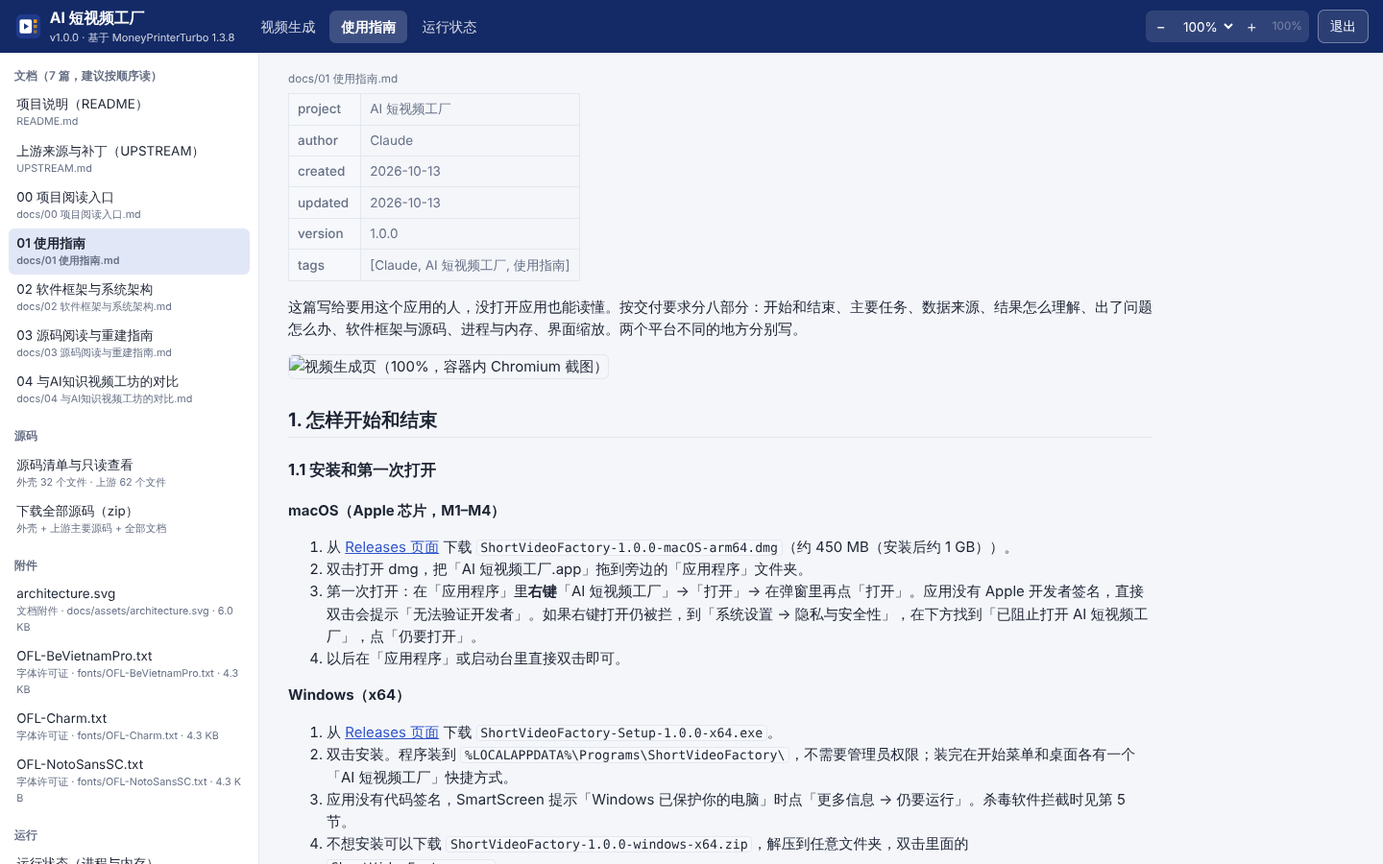
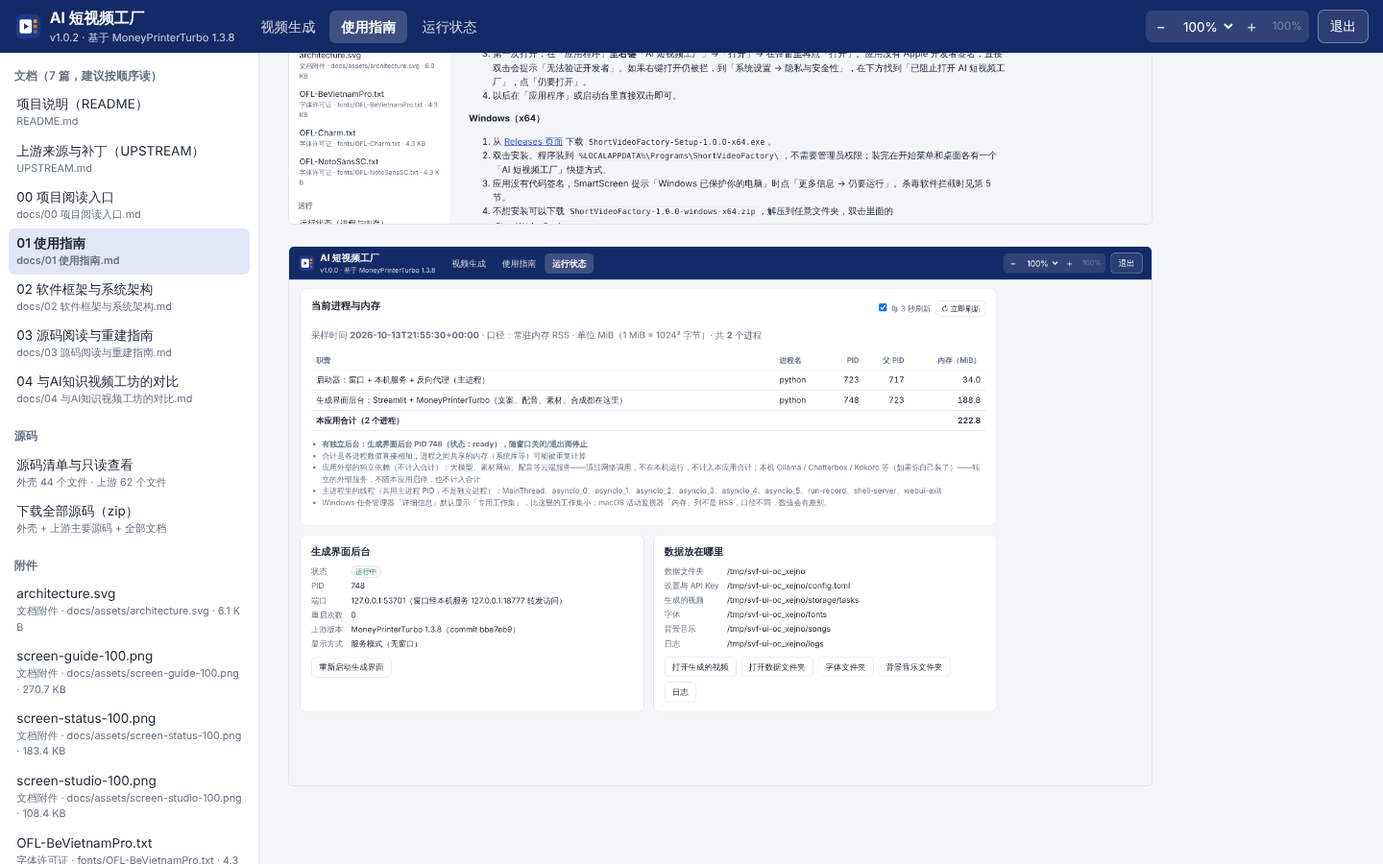
AI 短视频工厂 1.0.2：docs 02/03/04 同步、架构图与截图更新、界面检查加程序生成来源/语言提醒/钥匙提示/代理/知识卡片出片，Pixabay 标为推荐（P4 译文）[skip ci]
已完成：容器内无头 Chromium 界面检查 77 项全部通过（含知识讲解卡片 + 无配音离线出片）；Linux 打包冒烟通过（含知识卡片离线任务）；
上游测试（不加载 svf_ext）2043 通过；单元测试 66 项通过。
下一步：看加载 svf_ext 时上游测试的失败项，最后一次提交（不带 skip ci）触发两平台 CI。

Claude-Session: https://claude.ai/code/session_01KUofmxnsMVGvWx7QtZcrT5

diff --git a/shortvideo-factory/tests/ui_check.py b/shortvideo-factory/tests/ui_check.py
@@ -9,7 +9,9 @@
 3. 使用指南：逐篇打开 README、UPSTREAM 和 docs/ 全部文档，内容完整、图片能显示、站内链接能跳转、附件能下载；
    源码清单、外壳和上游源码只读查看、源码 zip 下载；窄窗口下入口仍可见。
 4. 运行状态：表里的 PID 与 ps 抽样一致（含内存），重启后台后列表更新、旧 PID 消失。
-5. （--generate）走通一条主要操作：本地素材 + 无配音（不需要网络和 Key）生成一条视频；生成中 FFmpeg 子进程出现在运行状态里，结束后消失。
+5. （--generate）走通一条主要操作：本地素材 + 无配音（不需要网络和 Key）生成一条视频；生成中 FFmpeg 子进程出现在运行状态里，结束后消失；
+   再用「知识讲解卡片」+ 无配音生成一条（1.0.2）。
+5b. 1.0.2：视频来源下拉的「程序生成」组、卡片配色、声音和文案语言不一致提醒、钥匙填错栏位提示、素材下载代理输入框。
 6. 扫一遍 Streamlit 页面里剩下的英文。
 7. 点「退出」：启动器、后台全部结束，端口释放。
 结果写到 <截图目录>/ui_check_report.json。
@@ -338,6 +340,28 @@ def run_status(page, rec: dict, shots: Path, base: str):
            "重启生成界面后台后，列表换成新 PID，旧 PID 不再显示", f"旧 {old} → 新 {new}；表中 {sorted(tbl2)}")
 
 
+def finals_of(data: Path) -> set:
+    tasks = data / "storage" / "tasks"
+    return set(tasks.glob("*/final-1.mp4")) if tasks.exists() else set()
+
+
+def wait_generation(page, frame, data: Path, before: set, base: str = "", timeout: int = 600):
+    """等这次生成结束：出现新的成片（不在 before 里）且页面显示完成，或页面显示失败。返回 (成功, 新成片, 期间见过的 FFmpeg PID)。"""
+    t0 = time.time()
+    saw_ffmpeg = set()
+    new = []
+    while time.time() - t0 < timeout:
+        if base:
+            procs = page.request.get(base + "/api/processes").json()["processes"]
+            saw_ffmpeg |= {p["pid"] for p in procs if "ffmpeg" in p["name"].lower()}
+        new = sorted(finals_of(data) - before)
+        body = frame.inner_text("body")
+        if (new and "视频生成完成" in body) or ("视频生成失败" in body and time.time() - t0 > 5):
+            break
+        time.sleep(1.5)
+    return bool(new) and "视频生成完成" in frame.inner_text("body"), new, saw_ffmpeg
+
+
 def run_generate(page, base: str, data: Path, media: Path):
     page.click("#tab-studio")
     frame = wait_studio(page)
@@ -353,18 +377,10 @@ def run_generate(page, base: str, data: Path, media: Path):
     frame.wait_for_timeout(800)
     frame.locator("button").filter(has_text="无配音").first.click()
     frame.wait_for_timeout(2000)
-    frame.locator("button").filter(has_text="生成视频").last.click()
+    before = finals_of(data)
     t0 = time.time()
-    saw_ffmpeg = set()
-    while time.time() - t0 < 600:
-        procs = page.request.get(base + "/api/processes").json()["processes"]
-        saw_ffmpeg |= {p["pid"] for p in procs if "ffmpeg" in p["name"].lower()}
-        body = frame.inner_text("body")
-        if "视频生成完成" in body or "视频生成失败" in body:
-            break
-        time.sleep(1.5)
-    done = "视频生成完成" in frame.inner_text("body")
-    finals = list((data / "storage" / "tasks").glob("*/final-1.mp4"))
+    frame.locator("button").filter(has_text="生成视频").last.click()
+    done, finals, saw_ffmpeg = wait_generation(page, frame, data, before, base)
     page.screenshot(path=str(Path(REPORT["shots"]) / "generate-done.png"))
     expect(done and finals, "主要操作：本地素材 + 无配音生成一条视频（离线）",
            f"用时 {time.time() - t0:.0f} 秒，成片 {finals[0] if finals else '无'}")
@@ -376,6 +392,101 @@ def run_generate(page, base: str, data: Path, media: Path):
         out = subprocess.run(["ffprobe", "-v", "error", "-show_entries", "format=duration:stream=codec_name,width,height",
                               "-of", "compact", str(finals[0])], capture_output=True, text=True).stdout
         ok("成片信息", out.replace("\n", " "))
+
+
+def voice_select(frame, text):
+    """在「配音声音」下拉里输入并选中一个声音。"""
+    box = frame.locator("[data-testid='stSelectbox']").filter(has_text="配音声音").first
+    box.locator("input").first.click()
+    frame.page.keyboard.press("Control+a")
+    frame.page.keyboard.press("Backspace")
+    frame.page.keyboard.type(text)
+    frame.wait_for_timeout(800)
+    frame.page.keyboard.press("Enter")
+    frame.wait_for_timeout(2500)
+
+
+def run_cards_ui(page, shots: Path, data: Path):
+    """1.0.2：程序生成来源、卡片配色、声音语言提醒、钥匙格式提示、素材下载代理。"""
+    page.click("#tab-studio")
+    frame = wait_studio(page)
+    dismiss_tour(frame)
+    sel = frame.locator(".mpt-grouped-select select").first
+    groups = sel.evaluate("s => [...s.querySelectorAll('optgroup')].map(g => [g.label, [...g.querySelectorAll('option')].map(o => o.value)])")
+    prog = dict((g[0], g[1]) for g in groups).get("程序生成", [])
+    expect(prog == ["knowledge_cards", "hybrid_pixabay", "hybrid_pexels"], "视频来源下拉单列「程序生成」组（知识讲解卡片、两种混合）", str(groups))
+    sel.select_option(value="knowledge_cards")
+    frame.wait_for_timeout(3000)
+    body = frame.inner_text("body")
+    expect("卡片配色" in body and "不需要素材钥匙" in body, "选「知识讲解卡片」后显示说明和「卡片配色」")
+    page.screenshot(path=str(shots / "cards-source-100.png"))
+    frame.locator("textarea[aria-label*='视频主题']").first.fill("逻辑门是怎样工作的")
+    frame.locator("textarea[aria-label*='视频主题']").first.press("Tab")
+    frame.wait_for_timeout(1500)
+    voice_select(frame, "af-ZA-Adri")
+    frame.wait_for_timeout(1500)
+    body = frame.inner_text("body")
+    expect("不是中文" in body and "No audio was received" in body, "中文主题选了 af-ZA 声音时提醒语言不一致")
+    warn = frame.locator("[data-testid='stAlert']").filter(has_text="不是中文").first
+    if warn.count():
+        warn.scroll_into_view_if_needed()
+        page.screenshot(path=str(shots / "voice-language-warning.png"))
+    voice_select(frame, "zh-CN-Xiaoxiao")
+    expect("不是中文" not in frame.inner_text("body"), "换回 zh-CN 声音后提醒消失")
+    frame.locator("button").filter(has_text="配置素材来源").first.click()
+    frame.wait_for_selector("[role='dialog']", timeout=15000)
+    dlg = frame.locator("[role='dialog']").first
+    pex = dlg.locator("input[aria-label^='Pexels API Key']").first
+    pex.fill("12345678-0123456789abcdef012345678")
+    pex.press("Enter")
+    frame.wait_for_timeout(2500)
+    expect("这像是 Pixabay 的钥匙" in dlg.inner_text(), "Pixabay 格式的钥匙填进 Pexels 栏时提示")
+    proxy = dlg.locator("input[aria-label*='素材下载代理']").first
+    expect(proxy.count() == 1, "素材来源设置里有「素材下载代理」输入框")
+    proxy.fill("http://127.0.0.1:7897")
+    proxy.press("Enter")
+    frame.wait_for_timeout(2500)
+    expect("素材搜索和下载走代理" in dlg.inner_text(), "填了素材下载代理后显示生效说明")
+    proxy.scroll_into_view_if_needed()
+    page.screenshot(path=str(shots / "material-settings-proxy.png"))
+    pex.fill("")
+    pex.press("Enter")
+    proxy.fill("")
+    proxy.press("Enter")
+    frame.wait_for_timeout(2500)
+    expect("这像是" not in dlg.inner_text(), "清空后钥匙提示消失")
+    page.keyboard.press("Escape")
+    frame.wait_for_timeout(1500)
+
+
+def run_generate_cards(page, base: str, data: Path):
+    """知识讲解卡片 + 无配音：不需要网络和任何钥匙，走通一条出片。"""
+    page.click("#tab-studio")
+    frame = wait_studio(page)
+    dismiss_tour(frame)
+    frame.locator(".mpt-grouped-select select").first.select_option(value="knowledge_cards")
+    frame.wait_for_timeout(2500)
+    frame.locator("textarea[aria-label*='视频主题']").first.fill("逻辑门")
+    frame.locator("textarea[aria-label*='视频文案']").first.fill(
+        "逻辑门是数字电路的基本单元。与门只有两个输入都为1时才输出1。或门只要有一个输入为1就输出1。非门则把输入取反。"
+        "计算机先把信号转成二进制，再交给逻辑门运算，最后输出结果。")
+    frame.wait_for_timeout(800)
+    frame.locator("button").filter(has_text="无配音").first.click()
+    frame.wait_for_timeout(2000)
+    before = finals_of(data)
+    t0 = time.time()
+    frame.locator("button").filter(has_text="生成视频").last.click()
+    done, finals, _ = wait_generation(page, frame, data, before)
+    stills = list(finals[0].parent.glob("knowledge-cards/page-*.png")) if finals else []
+    page.screenshot(path=str(Path(REPORT["shots"]) / "generate-cards-done.png"))
+    expect(done and finals and stills, "主要操作：知识讲解卡片 + 无配音生成一条视频（离线、无钥匙）",
+           f"用时 {time.time() - t0:.0f} 秒，成片 {finals[0] if finals else '无'}，讲解页 {len(stills)} 张")
+    if finals:
+        out = subprocess.run(["ffprobe", "-v", "error", "-show_entries", "format=duration:stream=codec_name,width,height",
+                              "-of", "compact", str(finals[0])], capture_output=True, text=True).stdout
+        ok("知识卡片成片信息", out.replace("\n", " "))
+        for k, f in enumerate(sorted(stills)[:3]):
+            shutil.copy(f, Path(REPORT["shots"]) / f"cards-page-{k + 1}.png")
 
 
 ICONS = {"expand_more", "settings", "keyboard_arrow_right", "keyboard_arrow_down", "auto_awesome", "restart_alt", "preview",
@@ -446,6 +557,7 @@ def main():
             run_narrow(page)
             rec = json.loads((data / "run.json").read_text(encoding="utf-8"))
             run_status(page, rec, shots, base)
+            run_cards_ui(page, shots, data)
             if a.generate:
                 media = Path(a.media) if a.media else Path(tempfile.mkdtemp(prefix="svf-media-"))
                 for i, src in enumerate(("testsrc2", "mandelbrot"), 1):
@@ -453,6 +565,7 @@ def main():
                         subprocess.run(["ffmpeg", "-loglevel", "error", "-y", "-f", "lavfi", "-i", f"{src}=size=1080x1920:rate=25",
                                         "-t", "8", "-pix_fmt", "yuv420p", "-c:v", "libx264", str(media / f"clip{i}.mp4")], check=True)
                 run_generate(page, base, data, media)
+                run_generate_cards(page, base, data)
             page.click("#tab-studio")
             wait_studio(page)
             scan_english(page)

diff --git a/shortvideo-factory/docs/00 项目阅读入口.md b/shortvideo-factory/docs/00 项目阅读入口.md
@@ -76,10 +76,12 @@ Releases 页面：<https://github.com/luoxuran1982/claude2/releases>（标签 `s
 | 项 | 状态 |
 | --- | --- |
 | 两个平台的安装包 | GitHub Actions 构建并通过冒烟测试（启动、接口、使用指南、经代理的生成界面、退出后进程结束端口释放、强制结束后后台自行退出；Windows 的 WebView2 窗口和 macOS 窗口都已在 CI 上创建）。实测大小：dmg 约 430 MB，Setup.exe 约 130 MB，免安装 zip 约 220 MB |
-| 界面检查 | 在 Linux 容器里用无头 Chromium 检查 67 项全部通过（`tests/ui_check.py`）：使用指南逐篇、源码页与 zip、缩放 11 档与上下限、下拉菜单位置、窄窗口、运行状态与 `ps` 一致、重启后台后列表更新、点「退出」后进程和端口全部释放 |
-| 测试 | 外壳单元测试 37 项（1.0.1 新增 edge-tts 兼容与默认声音 6 项）、缩放 JS 测试；上游自带测试 2043 项通过（跳过 29 项，依赖已删除的商业字体/音乐或 FFmpeg 版本，见 `tests/run_upstream_tests.py`） |
-| 离线出片 | 容器里用「本地文件」素材 + 「无配音」走通了一次完整生成（字幕用思源黑体，约 1.5 分钟出 1080×1920 成片），生成中 FFmpeg 子进程正确出现在运行状态里、结束后消失 |
-| 真实出片（大模型 + Pexels + Edge TTS） | **待用户验收**：容器里没有大模型和 Pexels Key，而且容器网络拦截了 api.pexels.com 和 speech.platform.bing.com（Edge TTS） |
+| 界面检查 | 1.0.2 在 Linux 容器里用无头 Chromium 检查 77 项全部通过（`tests/ui_check.py --generate`）：使用指南逐篇、源码页与 zip、缩放 11 档与上下限、下拉菜单位置、窄窗口、运行状态与 `ps` 一致、重启后台后列表更新；1.0.2 新增：视频来源下拉单列「程序生成」组、卡片配色、中文主题选 af-ZA 声音时的提醒、Pixabay 钥匙填进 Pexels 栏的提示、素材下载代理输入框；本地素材 + 无配音、**知识讲解卡片 + 无配音**各走通一次出片；点「退出」后进程和端口全部释放 |
+| 测试 | 外壳单元测试 66 项（1.0.2 新增 `tests/test_cards.py` 29 项：分页与版式选择、字幕对齐、画图、缓动编码、钥匙格式识别、配音/素材失败原因、打开目录的平台分支、语言不一致检测、代理，以及两个离线跑通上游完整流水线的知识卡片任务）、缩放 JS 测试；上游自带测试 2043 项通过（跳过 29 项，依赖已删除的商业字体/音乐或 FFmpeg 版本，见 `tests/run_upstream_tests.py`） |
+| 离线出片 | 容器里用「本地文件」素材 + 「无配音」、以及 1.0.2 的「知识讲解卡片」+ 固定文案 + 假配音（本地生成的音频和逐字时间，字幕照常生成）都走通了完整生成，产出 1080×1920 成片；CI 两个平台的冒烟测试用安装包里的 Python 跑同一个知识卡片任务 |
+| 知识讲解卡片（1.0.2） | 已验证：版式选择、字幕对齐、逐条亮起、缓动和淡入、3 套配色 × 竖屏/横屏/方形、字幕区避让、混合来源「没钥匙 → 全部用卡片」；**用真实大模型文案 + Edge 配音的出片效果待用户验收**；混合来源「搜到部分素材 → 与卡片混排」只有单元测试，没有用真实 Pixabay 钥匙跑过 |
+| 「打开目录」修复、素材下载代理、钥匙提示、配音失败原因（1.0.2） | 已验证：三个平台的打开方式分支（单元测试）、代理写入上游 `config.proxy` 并随配置保存、界面提示（容器内 Chromium）、按日志分类原因（单元测试）；**Windows 上实际弹出资源管理器、经真实代理下载素材、真实 403 / No audio 时的提示待用户验收** |
+| 真实出片（大模型 + Pixabay / Pexels + Edge TTS） | **待用户验收**：容器里没有大模型和素材 Key，而且容器网络拦截了素材站和 speech.platform.bing.com（Edge TTS） |
 | 1.0.1 的配音修复（edge-tts 7.3.1） | 已验证：7.3.1 能导入；上游 `azure_tts_v1` 在 7.3.1 下整条调用路径不报接口错误——把 WebSocket 换成假服务端（`tests/edge_tts_compat_check.py`），请求里带 Sec-MS-GEC v2 令牌，音频和逐词字幕都正确写出；模拟 403 时日志与用户看到的一致、界面提示带中文原因（容器内 Chromium 截图核对）。CI 的两平台冒烟测试也用随包 Python 跑同一检查。**真实配音待用户验收**（容器网络拦截 speech.platform.bing.com，没有绕过） |
 | 在 Mac / Windows 上安装、双击打开、关窗退出、活动监视器 / 任务管理器核对进程 | **待用户验收** |
 | macOS 窗口（WKWebView）里的缩放效果 | **待用户验收**（容器里只能验证 Chromium 内核；Windows 的 WebView2 也是 Chromium 内核） |

diff --git a/shortvideo-factory/UPSTREAM.md b/shortvideo-factory/UPSTREAM.md
@@ -41,7 +41,7 @@ tags: [Claude, AI 短视频工厂, 上游, MoneyPrinterTurbo]
 | P1 | `app/config/config.py` | `config_file` 优先取环境变量 `MPT_CONFIG_FILE`；保存配置时的临时文件放在配置文件所在目录（原来是项目根目录） | 安装目录只读（macOS 的 .app 改了会破坏签名），配置和 API Key 必须放用户数据目录；原来临时文件写在项目根目录，只读时保存会失败 |
 | P2 | `app/utils/utils.py` | `storage_dir()`、`font_dir()`、`song_dir()` 分别优先取 `MPT_STORAGE_DIR`、`MPT_FONT_DIR`、`MPT_SONG_DIR` | 生成的视频、素材缓存、用户自己放的字体和音乐都放用户数据目录，升级重装不丢 |
 | P3 | `webui/Main.py` | 界面里的字体、音乐目录改用 `utils.font_dir()` / `utils.song_dir()`（原来写死 `resource/fonts`）；「打开任务目录」用 `utils.task_dir()`（原来写死 `storage/tasks`）；默认字幕字体可由 `MPT_DEFAULT_FONT` 指定 | 和 P2 保持一致；微软雅黑不随包分发后，「恢复默认」要落到存在的开源字体上 |
-| P4 | `webui/i18n/zh.json` | 9 个仍是英文的标签改成中文：Base Url → 接口地址（Base URL），Account ID → 账号 ID，以及 VoxCPM / Chatterbox / Kokoro / OFox / MuAPI 的 Base URL、MiniMax TTS Endpoint / Model | 界面全中文的要求；只改译文，不改键名 |
+| P4 | `webui/i18n/zh.json` | 9 个仍是英文的标签改成中文：Base Url → 接口地址（Base URL），Account ID → 账号 ID，以及 VoxCPM / Chatterbox / Kokoro / OFox / MuAPI 的 Base URL、MiniMax TTS Endpoint / Model；1.0.2 起，「设置 → 素材来源」里 Pexels 钥匙标签的「推荐使用」改到 Pixabay，Pexels 注明「目前暂停发放新钥匙」 | 界面全中文的要求；只改译文，不改键名；Pexels 暂停发放新钥匙后，原来「Pexels 推荐使用、Pixabay 备用」的说法会误导新用户 |
 | P5 | `webui/Main.py` | 文件开头尝试导入外壳扩展 `svf_ext.webui`（导入不到就是 `None`，以下各处都退回原行为）。① `VIDEO_SOURCE_GROUPS` 加「程序生成」组，视频来源下拉多一组（知识讲解卡片、混合），标签和说明、卡片配色由 `svf_ext` 提供；提交前的「有效来源」名单加上这三个值；② 「打开任务目录」「打开缓存目录」两处原来的 `webbrowser.open("file://…")`、`webbrowser.open(Path(…).as_uri())` 改成新函数 `_open_local_path`（调用 `svf_ext.desktop.open_path`：Windows `os.startfile`、macOS `open`、Linux `xdg-open`）；③ 「设置 → 素材来源」里 Pexels / Pixabay 钥匙输入框下面加格式提示，Coverr 下面加「素材下载代理」输入框；④ 选配音声音后、点「生成视频」时，声音和文案语言不一致就提醒；⑤ 试听失败「配音服务未返回试听音频」后面接上按日志判断的中文原因 | ① 用户讲知识类主题时素材库只有风景动物，要有不依赖素材的来源；② 用户反馈：Windows 上点「打开目录」没有任何反应（`webbrowser` 打开 `file://` 在 Windows 上静默失败）；③ 用户把 Pixabay 钥匙填进 Pexels 栏、Pexels 暂停发新钥匙；需要代理才能下载素材又不想开系统代理；④⑤ 用户选了 af-ZA、zu-ZA 声音导致「No audio was received」，原提示一律先说 403 |
 | P6 | `app/services/task.py` | 文件开头尝试导入 `svf_ext.pipeline`（导入不到就是 `None`）。① `_SUPPORTED_VIDEO_SOURCES` 加上三个程序生成来源；② 纯「知识讲解卡片」不调用大模型生成搜索关键词（`generate_terms`）；③ `get_video_materials` 在 local / loomloom 分支之后加一个分支：来源是程序生成组时调用 `svf_pipeline.prepare_materials`（这时配音和字幕已经生成，按它们的时间分页画图，返回一个 mp4 交回上游后续流程）；④ 配音失败 `failed to synthesize audio; …`、素材下载失败 `failed to download video materials from …` 两句英文原文不变，后面接上中文原因 | ③ 讲解页要跟着配音和字幕的时间走，只有素材这一步之后才知道时间；其余流程（转场、字幕、配音、背景音乐、拼接）原样复用；② 少一次大模型调用、少一个失败点；④ 原因只在日志里，界面上看不到 |
 

diff --git a/shortvideo-factory/docs/01 使用指南.md b/shortvideo-factory/docs/01 使用指南.md
@@ -87,6 +87,7 @@ Pixabay 素材按 [Pixabay 内容许可](https://pixabay.com/service/license-sum
 2. **生成文案和关键词**：点「点击使用AI生成视频文案和关键词」。大模型先写文案（填进「视频文案」），再生成 5 个英文素材搜索词（填进「视频关键词」）。两处都可以手动改；自己写文案的话直接粘贴，再点「点击使用AI根据文案生成视频关键词」。
 3. **视频设置**（右上）：「视频来源」选「知识讲解卡片」（知识类主题，免费，见第 2.4 节）、「Pixabay」（实拍素材）或「混合」；「视频比例」竖屏 9:16（抖音/视频号）或横屏 16:9；「视频拼接模式」随机拼接；「单个片段最大时长」默认 3 秒；「同时生成视频数量」默认 1。
 4. **音频设置**（左下）：「配音方式」自动配音；「配音服务」默认「Azure TTS V1 (Edge TTS)」（免费，需联网）；「配音声音」默认是中文女声「zh-CN-XiaoxiaoNeural」（晓晓，1.0.1 起首次打开就选好），可换其他 zh-CN 开头的中文声音，点「试听音色」；声音要和文案语言一致——中文文案选了 af-ZA（南非荷兰语）、zu-ZA（祖鲁语）这类外语声音时，声音下拉下面会出现黄色提醒，点「生成视频」时也会再提醒一次（只提醒、不拦），否则微软会返回「No audio was received」导致配音失败；「背景音乐来源」默认随机（`songs/` 里没有 mp3 时不加背景音乐）。
+   ![中文主题选了 af-ZA 声音时的提醒（1.0.2）](assets/screen-voice-warning-100.png)
 5. **字幕设置**（右下）：默认启用，字体是随应用提供的「NotoSansSC-Bold.ttf」（思源黑体粗体），可调位置、颜色、大小、描边。
 6. 点页面最下方红色的「**生成视频**」。下方会显示进度和日志：生成文案 → 关键词 → 配音 → 字幕 → 下载素材（知识讲解卡片是「画讲解页」）→ 合成。一条 1 分钟左右的视频，在普通电脑上一般 2–6 分钟，主要花在下载素材和编码。
 7. 完成后页面里直接播放成片，同时自动打开任务文件夹（可在「设置 → 界面设置」关掉）。1.0.2 起 Windows 上也能正常打开（以前用 `file://` 网址打开，在 Windows 上没反应；现在用系统自己的打开方式：Windows 资源管理器 `os.startfile`、macOS 访达 `open`、Linux `xdg-open`）。
@@ -116,6 +117,10 @@ Pixabay 素材按 [Pixabay 内容许可](https://pixabay.com/service/license-sum
 ### 2.4 知识讲解卡片与混合（1.0.2 新增）
 
 **知识讲解卡片**不用 AI 画图，也不搜素材：由程序根据文案画出图文讲解页。用法：「视频来源」选「程序生成 → 知识讲解卡片（免费，不需要素材钥匙）」，下面选「卡片配色」，其余照常（文案、配音、字幕、背景音乐），点「生成视频」。
+
+![选「知识讲解卡片」后的视频设置（1.0.2，容器内 Chromium 截图）](assets/screen-cards-source-100.png)
+
+![知识讲解卡片的三页示例：标题页、并列句做成的编号要点（第 3 条正在讲）、流程箭头（课堂蓝配色，竖屏）](assets/cards-pages-sample.png)
 
 它怎样做画面：
 
@@ -148,6 +153,8 @@ Pixabay 素材按 [Pixabay 内容许可](https://pixabay.com/service/license-sum
 ### 2.5 素材下载代理（1.0.2 新增）
 
 有的网络要开代理才能访问 Pixabay / Pexels。以前只能开系统代理（会让所有软件都走代理）或手改 `config.toml`。现在：「设置 → 素材来源设置」→ 最底下「**素材下载代理（可选，如 http://127.0.0.1:7897）**」，填你的代理软件提供的本机 HTTP 代理地址（常见端口 7890、7897、1080 等，以代理软件里显示的为准；`socks5://` 开头的 SOCKS 代理也可以）。
+
+![素材来源设置：钥匙填错栏位的提示和素材下载代理（1.0.2）](assets/screen-material-proxy-100.png)
 
 - 填了以后**立即生效**，只有素材搜索和下载走这个代理（Pexels、Pixabay、Coverr，以及上游接入的 AI 视频服务的接口）；大模型、Edge 配音不走它，不用开系统代理。
 - 格式不对时输入框下面会提示；留空表示不用代理。

diff --git a/shortvideo-factory/docs/04 与AI知识视频工坊的对比.md b/shortvideo-factory/docs/04 与AI知识视频工坊的对比.md
@@ -3,11 +3,13 @@ project: AI 短视频工厂
 author: Claude
 created: 2026-10-13
 updated: 2026-10-14
-version: 1.0.1
+version: 1.0.2
 tags: [Claude, AI 短视频工厂, AI 知识视频工坊, 对比]
 ---
 
 这篇比较两个应用：**AI 短视频工厂**（本项目，内置 MoneyPrinterTurbo 1.3.8，commit `bbe7eb9`）和本仓库根目录的 **AI 知识视频工坊**（`studio/`，0.3.1）。所有结论来自两边的源码（文中注明了文件和函数），没有用真实 Key 实际出片；花费是按源码里的提示词长度和统一假设单价估算的，实测方法见最后一节。
+
+> 1.0.2 更新：短视频工厂新增视频来源「知识讲解卡片」，把工坊「本机按模板画帧」的做法搬了过来（画法移植自 `studio/visuals.py`，见本文最后一节「1.0.2 借鉴了什么」）。下面的对比主要针对库存视频来源；用知识讲解卡片时，短视频工厂在「画面上的文字和数字准确」「数据和步骤能画出来」这两点上接近工坊。
 
 ## 一句话结论
 
@@ -178,3 +180,19 @@ tags: [Claude, AI 短视频工厂, AI 知识视频工坊, 对比]
 | 你愿意直接发布吗 | | | |
 
 建议再换一个**数据或技术类**题目（例如「2026 年国产大模型价格战」或「什么是数据库索引」）各跑一次，差别会更明显：工厂找不到能表达数字和概念的素材，工坊则能画出图表和流程图。
+
+## 1.0.2 借鉴了什么、没借鉴什么
+
+1.0.2 的「知识讲解卡片」来源把工坊的思路用在了短视频工厂里，代码在 `svf_ext/`：
+
+| 工坊的做法 | 短视频工厂 1.0.2 | 差别 |
+| --- | --- | --- |
+| `visuals.py` 的版式和排字（标题卡、要点、关键词、数字、流程、对比、`fit_text` 自动缩字号、平衡换行、三套配色） | 移植到 `svf_ext/cards.py`：标题、编号要点、对比两栏、流程箭头、关键数字、关键词卡，加一个文字卡；三套配色（课堂蓝、深夜蓝、暖纸） | 工坊有 11 种（含代码、图表、表格、引语、配图），这里没做代码、图表、表格、配图——没有结构化数据来源 |
+| 分镜由大模型一次输出（每镜的类型、画面上的字、数据） | 不额外调用大模型：按句子特征用规则选版式（「第一…第二」、并列主语、「先…再…最后」、「…，而…」、「包括 A、B、C」、带单位的数字），规则参考工坊 `pipeline.script_to_scenes`（零 token 导入稿子） | 规则判断不如模型准，偶尔选错版式、要点截得不完整；但不多花钱、不多一个失败点 |
+| `reveal_plan`：要点随口播逐条出现 | 有：按字幕时间，每条要点在说到它时亮起 | 工坊按句块配音、用采样数算时间；这里按上游 Edge 字幕的字数对齐时间 |
+| 逐句配音、按 WAV 采样数对齐时间轴 | 没搬：配音和字幕仍由上游生成，卡片跟着上游的字幕时间走 | 上游配音是整段一次合成，速度快、语气连贯 |
+| 静态帧 + FFmpeg concat | 改成每页缓慢缩放 / 平移（亚像素平滑）+ 页间 0.3 秒淡入 | 比工坊的静态卡片更有动感 |
+| 事实清单、合规检查、审片页、封面、发布信息 | 没搬 | 短视频工厂仍然没有事实核对和合规提示 |
+| 「混合」：工坊对具体事物配图、抽象内容用模板 | 有类似的「混合」来源：库存素材放进普通页，结构化的页（要点、对比、流程、数字）保留卡片 | 工坊按分数门槛挑图，这里按素材时长够不够这一页 |
+
+结论：讲知识类主题时，短视频工厂选「知识讲解卡片」已经能做出画面和内容对应的视频，而且不花素材钱、不需要钥匙；要事实核对、代码/图表、横竖两版和审稿环节，仍然用知识视频工坊。
